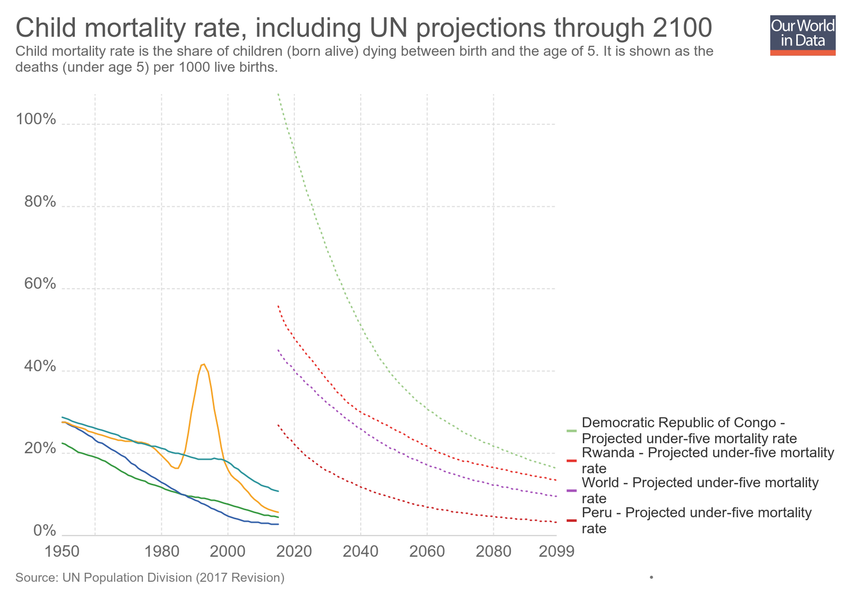
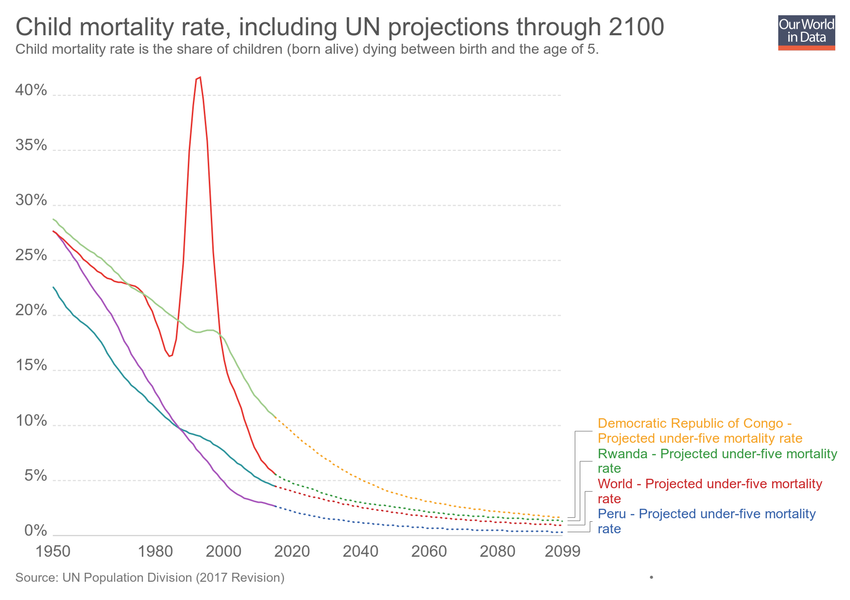
Updating chart child-mortality-rate-including-un-projections-through-2100

diff --git a/grapher/child-mortality-rate-including-un-projections-through-2100.html b/grapher/child-mortality-rate-including-un-projections-through-2100.html
@@ -1,4 +1,4 @@
-<!doctype html><html><head><meta name="viewport" content="width=device-width, initial-scale=1" /><title>Child mortality rate, including UN projections through 2100 - Our World in Data</title><meta name="description" content="Child mortality rate is the share of children (born alive) dying between birth and the age of 5. It is shown as the deaths (under age 5) per 1000 live births. " /><link rel="canonical" href="https://ourworldindata.org/grapher/child-mortality-rate-including-un-projections-through-2100" /><meta property="fb:app_id" content="1149943818390250" /><meta property="og:url" content="https://ourworldindata.org/grapher/child-mortality-rate-including-un-projections-through-2100" /><meta property="og:title" content="Child mortality rate, including UN projections through 2100" /><meta property="og:description" content="Child mortality rate is the share of children (born alive) dying between birth and the age of 5. It is shown as the deaths (under age 5) per 1000 live births. " /><meta property="og:image" content="https://ourworldindata.org/grapher/exports/child-mortality-rate-including-un-projections-through-2100.png?v=1" /><meta property="og:image:width" content="850" /><meta property="og:image:height" content="600" /><meta property="og:site_name" content="Our World in Data" /><meta name="twitter:card" content="summary_large_image" /><meta name="twitter:site" content="@OurWorldInData" /><meta name="twitter:creator" content="@OurWorldInData" /><meta name="twitter:title" content="Child mortality rate, including UN projections through 2100" /><meta name="twitter:description" content="Child mortality rate is the share of children (born alive) dying between birth and the age of 5. It is shown as the deaths (under age 5) per 1000 live births. " /><meta name="twitter:image" content="https://ourworldindata.org/grapher/exports/child-mortality-rate-including-un-projections-through-2100.png?v=1" /><style>
+<!doctype html><html><head><meta name="viewport" content="width=device-width, initial-scale=1" /><title>Child mortality rate, including UN projections through 2100 - Our World in Data</title><meta name="description" content="Child mortality rate is the share of children (born alive) dying between birth and the age of 5." /><link rel="canonical" href="https://ourworldindata.org/grapher/child-mortality-rate-including-un-projections-through-2100" /><meta property="fb:app_id" content="1149943818390250" /><meta property="og:url" content="https://ourworldindata.org/grapher/child-mortality-rate-including-un-projections-through-2100" /><meta property="og:title" content="Child mortality rate, including UN projections through 2100" /><meta property="og:description" content="Child mortality rate is the share of children (born alive) dying between birth and the age of 5." /><meta property="og:image" content="https://ourworldindata.org/grapher/exports/child-mortality-rate-including-un-projections-through-2100.png?v=3" /><meta property="og:image:width" content="850" /><meta property="og:image:height" content="600" /><meta property="og:site_name" content="Our World in Data" /><meta name="twitter:card" content="summary_large_image" /><meta name="twitter:site" content="@OurWorldInData" /><meta name="twitter:creator" content="@OurWorldInData" /><meta name="twitter:title" content="Child mortality rate, including UN projections through 2100" /><meta name="twitter:description" content="Child mortality rate is the share of children (born alive) dying between birth and the age of 5." /><meta name="twitter:image" content="https://ourworldindata.org/grapher/exports/child-mortality-rate-including-un-projections-through-2100.png?v=3" /><style>
         html, body {
             height: 100%;
             margin: 0;
@@ -20,8 +20,8 @@
         }
     </style><noscript><style>
                     figure { display: none !important; }
-                </style></noscript><link rel="stylesheet" href="https://ourworldindata.org/grapher/assets/commons.bundle.dcbbe53805c487d5e57617b10ac73a8a.css" /><link rel="preload" href="/grapher/data/variables/8385+8402.json?v=1" as="fetch" crossorigin /></head><body class="singleChart"><figure data-grapher-src="/grapher/child-mortality-rate-including-un-projections-through-2100"></figure><noscript id="fallback"><img src="/grapher/exports/child-mortality-rate-including-un-projections-through-2100.svg" /><p>Interactive visualization requires JavaScript</p></noscript><script src="https://cdn.polyfill.io/v2/polyfill.min.js?features=es6,fetch"></script><script src="https://ourworldindata.org/grapher/assets/commons.bundle.da523acc49807a06a11f.js"></script><script src="https://ourworldindata.org/grapher/assets/charts.bundle.da523acc49807a06a11f.js"></script><script>
-        var jsonConfig = {"id":1194,"map":{"projection":"World","targetYear":2015,"variableId":8385,"legendStepSize":20,"baseColorScheme":"Oranges","isManualBuckets":true,"colorSchemeLabels":[],"colorSchemeValues":[50,100,150,200,250,300,350,400,450],"defaultProjection":"World","legendDescription":"Deaths under age 5 per 1000 live births","colorSchemeMinValue":0,"customNumericColors":[],"customCategoryColors":{},"customCategoryLabels":{},"customHiddenCategories":{}},"tab":"chart","slug":"child-mortality-rate-including-un-projections-through-2100","type":"LineChart","title":"Child mortality rate, including UN projections through 2100","xAxis":{"scaleType":"linear"},"yAxis":{"min":0,"scaleType":"linear"},"version":1,"subtitle":"Child mortality rate is the share of children (born alive) dying between birth and the age of 5. It is shown as the deaths (under age 5) per 1000 live births. ","hasMapTab":true,"originUrl":"","stackMode":"absolute","dimensions":[{"id":6908,"order":0,"chartId":1194,"display":{"name":"Under-five mortality rate"},"property":"y","targetYear":null,"variableId":8385},{"id":6909,"order":1,"chartId":1194,"display":{"name":"Projected under-five mortality rate ","isProjection":true},"property":"y","targetYear":null,"variableId":8402}],"isAutoSlug":true,"hasChartTab":true,"isPublished":true,"selectedData":[{"index":0,"entityId":355},{"index":1,"entityId":355},{"index":0,"entityId":97},{"index":1,"entityId":97},{"index":0,"entityId":91},{"index":1,"entityId":91},{"index":0,"entityId":167},{"index":1,"entityId":167}],"internalNotes":"","addCountryMode":"add-country"};
+                </style></noscript><link rel="stylesheet" href="https://ourworldindata.org/grapher/assets/commons.bundle.dcbbe53805c487d5e57617b10ac73a8a.css" /><link rel="preload" href="/grapher/data/variables/8385+8402.json?v=3" as="fetch" crossorigin /></head><body class="singleChart"><figure data-grapher-src="/grapher/child-mortality-rate-including-un-projections-through-2100"></figure><noscript id="fallback"><img src="/grapher/exports/child-mortality-rate-including-un-projections-through-2100.svg" /><p>Interactive visualization requires JavaScript</p></noscript><script src="https://cdn.polyfill.io/v2/polyfill.min.js?features=es6,fetch"></script><script src="https://ourworldindata.org/grapher/assets/commons.bundle.da523acc49807a06a11f.js"></script><script src="https://ourworldindata.org/grapher/assets/charts.bundle.da523acc49807a06a11f.js"></script><script>
+        var jsonConfig = {"id":1194,"map":{"projection":"World","targetYear":2015,"variableId":8385,"baseColorScheme":"Oranges","isManualBuckets":true,"colorSchemeLabels":[],"colorSchemeValues":[50,100,150,200,250,300,350,400,450],"legendDescription":"Deaths under age 5 per 1000 live births","colorSchemeMinValue":0,"customNumericColors":[],"customCategoryColors":{},"customCategoryLabels":{},"customHiddenCategories":{}},"tab":"chart","slug":"child-mortality-rate-including-un-projections-through-2100","type":"LineChart","title":"Child mortality rate, including UN projections through 2100","xAxis":{"scaleType":"linear"},"yAxis":{"min":0,"scaleType":"linear"},"version":3,"subtitle":"Child mortality rate is the share of children (born alive) dying between birth and the age of 5.","hasMapTab":true,"originUrl":"","stackMode":"absolute","dimensions":[{"display":{"name":"Under-five mortality rate"},"property":"y","variableId":8385},{"display":{"name":"Projected under-five mortality rate ","isProjection":true,"conversionFactor":0.1},"property":"y","variableId":8402}],"hasChartTab":true,"isPublished":true,"selectedData":[{"index":0,"entityId":355},{"index":1,"entityId":355},{"index":0,"entityId":97},{"index":1,"entityId":97},{"index":0,"entityId":91},{"index":1,"entityId":91},{"index":0,"entityId":167},{"index":1,"entityId":167}],"internalNotes":"","addCountryMode":"add-country"};
         var figure = document.getElementsByTagName("figure")[0];
         try {
             window.App = {};
